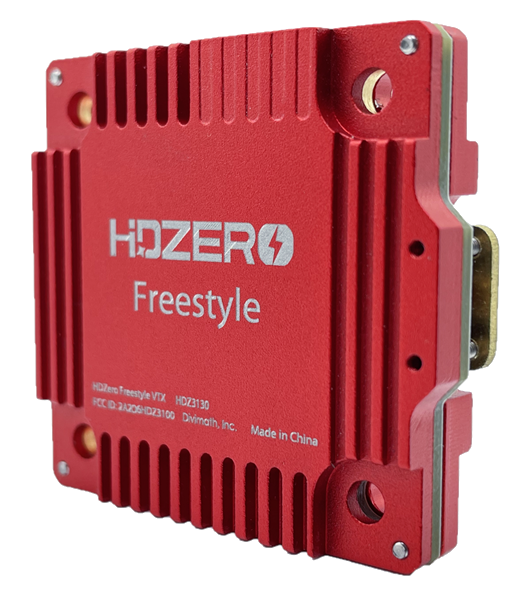
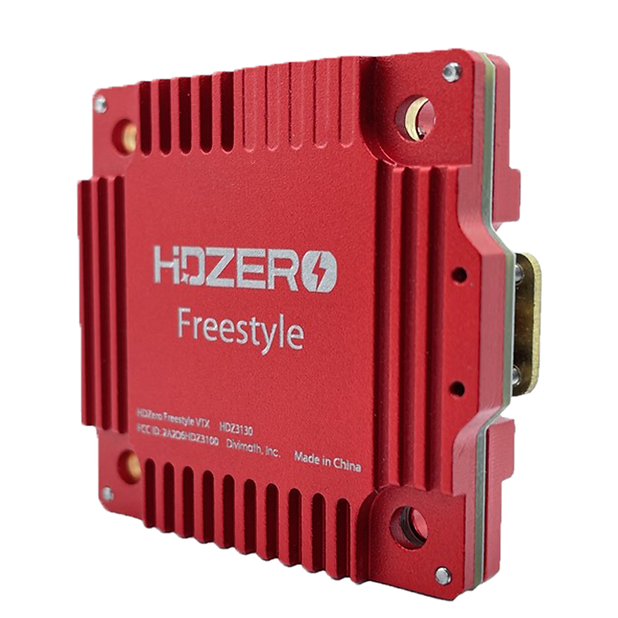
rework hdzero images

diff --git a/src/03_decisions/030_video_systems/033_digital_HDZero.md b/src/03_decisions/030_video_systems/033_digital_HDZero.md
@@ -20,9 +20,10 @@ Es wird langsam von Drittherstellern adaptiert, die eigene Kameras und Video-Sen
 
 Aktuell gibt es 3 relevante Videosender.
 
-| Race V2 (20x20)                                                                                                                                                             | Whoop (25x25)                                                                                                                                                              | Freestyle (30x30)                                                      |
-| --------------------------------------------------------------------------------------------------------------------------------------------------------------------------- | -------------------------------------------------------------------------------------------------------------------------------------------------------------------------- | ---------------------------------------------------------------------- |
-| ![HDZero Race v2 VTX](https://static.wixstatic.com/media/967e02_0e44ce977be64add96eeeed77389581e~mv2.png/v1/fill/w_204,h_201,al_c,usm_0.66_1.00_0.01,enc_auto/top1_tou.png) | ![TX5S.1](https://static.wixstatic.com/media/967e02_388c829d11164f7abd2429a625bdc93e~mv2.png/v1/fill/w_223,h_162,al_c,usm_0.66_1.00_0.01,enc_auto/%E5%8D%95%E6%9D%BF1.png) | ![HDZero 1Watt freestyle VTX](/img/divimath/HDzero_freestyle_vtx.png) |
+| Race V2 (20x20)                                             | Whoop (25x25)                                    | Freestyle (30x30)                                                     |
+| ----------------------------------------------------------- | ------------------------------------------------ | --------------------------------------------------------------------- |
+| ![HDZero Race v2 VTX](/img/divimath/hdzero_race_vtx_v2.png) | ![TX5S.1](/img/divimath/hdzero_whoop_vtx_v1.png) | ![HDZero 1Watt freestyle VTX](/img/divimath/hdzero_freestyle_vtx.png) |
+|                                                             | ![TX5S.1](/img/divimath/hdzero_whoop_vtx_v2.png) |                                                                       |
 
 Der Freestyle Sender hat bis zu einem Watt Sendeleistung. Alle anderen bis zu 200 Milliwatt. Bitte beachte, dass in Deutschland maximal 25 Milliwatt legal sind.
 
@@ -42,6 +43,6 @@ Zu der betreffenden Hardware zählen Videosender in teilweise etwas unüblichen 
 
 Daneben gibt es noch Legacy-Empfangs-Hardware. Eine Brille mit eingebautem HDZero-Modul und ein separates Modul. Das Modul wurde nahtlos durch den oben bereits genannten Empfänger ersetzt. Für die Brille gibt es bisher noch keine Alternative.
 
-| Fatshark Scout HD                                          | SharkByte Empfänger                                            |
-| ---------------------------------------------------------- | -------------------------------------------------------------- |
+| Fatshark Scout HD                                         | SharkByte Empfänger                                           |
+| --------------------------------------------------------- | ------------------------------------------------------------- |
 | ![Fatshark Scout HD](/img/fatshark/fatshark_scout_hd.png) | ![Shark Byte RX5.1](/img/fatshark/fatshark_sharkbyte_vrx.png) |
